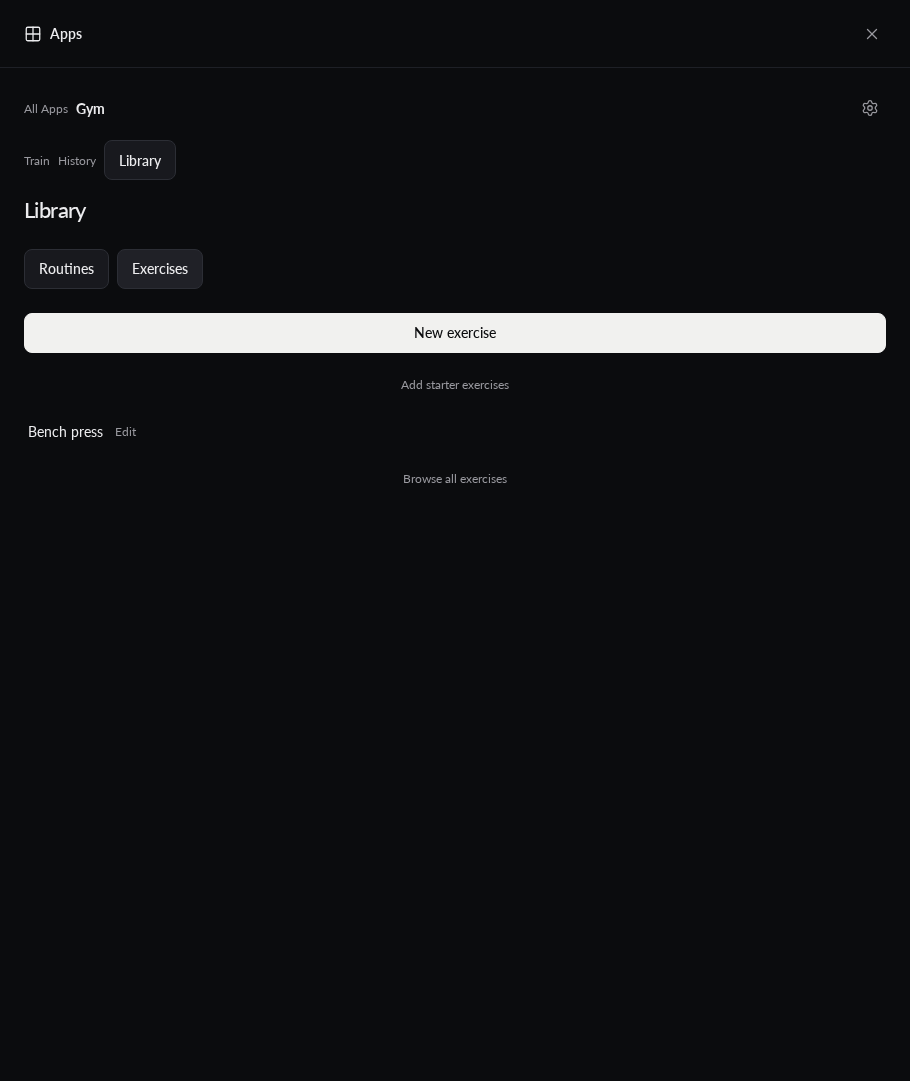
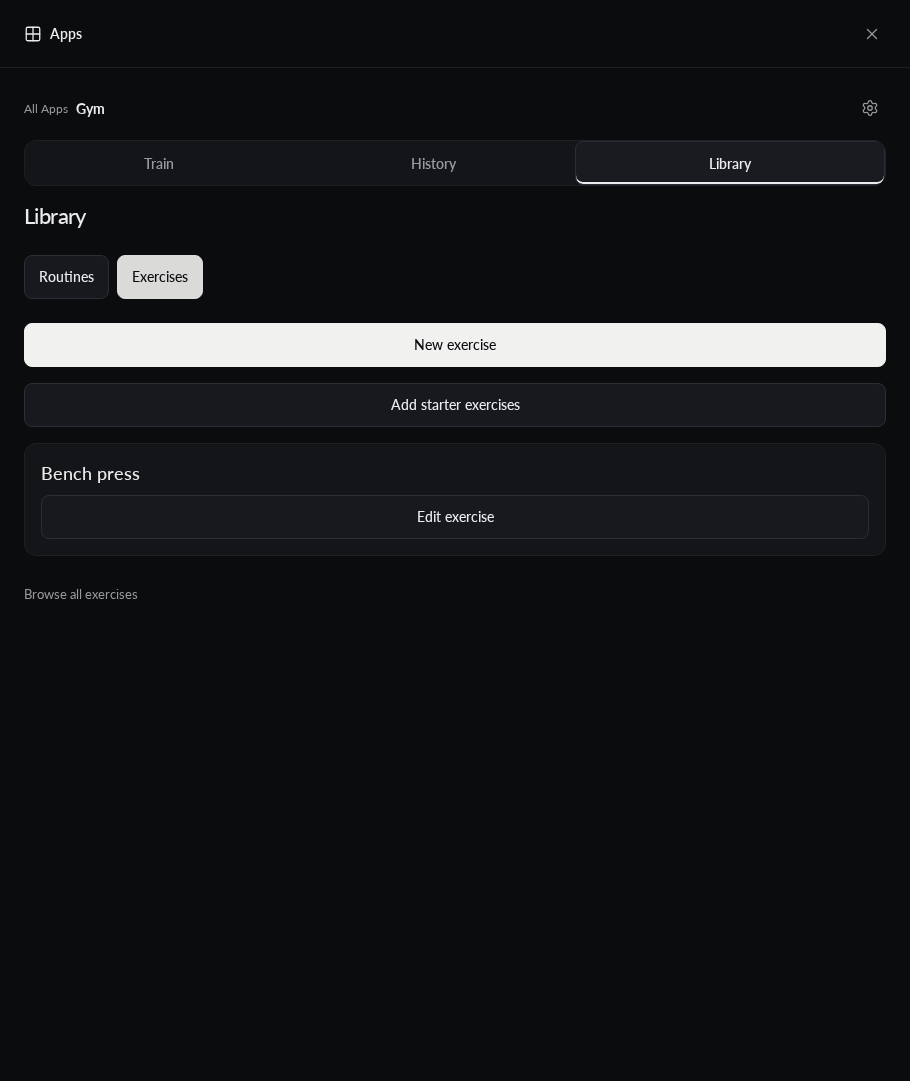
style(gym): clarify workouts and simplify routine editing

diff --git a/src/views/overview-card.ts b/src/views/overview-card.ts
@@ -229,18 +229,29 @@ export function overviewCard(slot: number): NativeNode {
             props: { gap: "small" },
             children: [
               {
-                id: `set-inputs-${slot}`,
+                id: `set-heading-${slot}`,
                 component: "row",
-                props: { gap: "small", align: "end", wrap: false },
+                props: { gap: "small", align: "start", wrap: false },
                 children: [
-                  text(`set-number-${slot}`, {
-                    op: "format",
-                    format: "number",
-                    digits: 0,
-                    value: loggingValue(slot, "ordinals", { itemIndex: "set" }),
-                  }),
-                  metric(slot, 0),
-                  metric(slot, 1),
+                  {
+                    id: `set-number-${slot}`,
+                    component: "heading",
+                    props: {
+                      level: 3,
+                      text: join(
+                        literal("Set"),
+                        {
+                          op: "format",
+                          format: "number",
+                          digits: 0,
+                          value: loggingValue(slot, "ordinals", {
+                            itemIndex: "set",
+                          }),
+                        },
+                        " ",
+                      ),
+                    },
+                  },
                   {
                     id: `set-done-${slot}`,
                     component: "checkbox",
@@ -251,6 +262,12 @@ export function overviewCard(slot: number): NativeNode {
                     },
                   },
                 ],
+              },
+              {
+                id: `set-inputs-${slot}`,
+                component: "row",
+                props: { gap: "normal", align: "end", wrap: false },
+                children: [metric(slot, 0), metric(slot, 1)],
               },
               {
                 id: `planned-${slot}`,
@@ -332,13 +349,13 @@ export function overviewCard(slot: number): NativeNode {
             },
             button(
               `previous-${slot}`,
-              "Previous values",
+              "Previous workout",
               [{ op: "refresh-source", source: compareName(slot) }],
               "ghost",
             ),
             button(
               `details-${slot}`,
-              "Details",
+              "Set options",
               [
                 ...submitCards,
                 ...navigate(

diff --git a/src/views/library.ts b/src/views/library.ts
@@ -27,7 +27,7 @@ function section(kind: "routine" | "exercise"): NativeNode {
               "starter-exercises",
               "Add starter exercises",
               navigate("starter-catalog"),
-              "ghost",
+              "secondary",
             ),
           ]
         : []),
@@ -42,19 +42,19 @@ function section(kind: "routine" | "exercise"): NativeNode {
         },
         template: {
           id: `${kind}-row`,
-          component: "row",
-          props: { gap: "small", align: "center", wrap: true },
+          component: "card",
+          props: { gap: "small" },
           children: [
             {
               id: `${kind}-name`,
-              component: "text",
-              props: { text: ref("item", ["data", "name"], "entry") },
+              component: "heading",
+              props: { text: ref("item", ["data", "name"], "entry"), level: 2 },
             },
             button(
               `open-${kind}`,
-              "Edit",
+              routines ? "View routine" : "Edit exercise",
               navigate(kind, object({ id: ref("item", ["id"], "entry") })),
-              "ghost",
+              "secondary",
             ),
           ],
         },
@@ -96,12 +96,31 @@ export const library = workoutView({
       component: "row",
       props: { gap: "small", wrap: true },
       children: [
-        button("show-routines", "Routines", [
-          { op: "set-state", path: ["section"], value: literal("routines") },
-        ]),
-        button("show-exercises", "Exercises", [
-          { op: "set-state", path: ["section"], value: literal("exercises") },
-        ]),
+        ...(["routines", "exercises"] as const).map((value): NativeNode => {
+          const selected = button(
+            `show-${value}`,
+            value === "routines" ? "Routines" : "Exercises",
+            [{ op: "set-state", path: ["section"], value: literal(value) }],
+            "primary",
+          );
+          return {
+            id: `select-${value}`,
+            component: "condition",
+            props: {
+              when: {
+                op: "equal",
+                left: ref("state", ["section"]),
+                right: literal(value),
+              },
+            },
+            then: selected,
+            else: {
+              ...selected,
+              id: `choose-${value}`,
+              props: { ...selected.props, tone: "secondary" },
+            },
+          };
+        }),
       ],
     },
     section("routine"),

diff --git a/src/views/workout-overview.ts b/src/views/workout-overview.ts
@@ -181,14 +181,14 @@ export const workoutOverview = workoutView({
         },
         button(
           "details",
-          "Details",
+          "Workout details",
           navigateFromCards("workout-details", entity),
           "ghost",
         ),
         {
           ...button(
             "finish-workout",
-            "Finish",
+            "Finish workout",
             [...submitCards, { op: "open-dialog", dialog: "finish" }],
             "primary",
           ),
@@ -232,34 +232,55 @@ export const workoutOverview = workoutView({
         },
       ],
     },
-    text(
-      "workout-progress",
-      join(
+    {
+      ...text(
+        "workout-progress",
         join(
-          {
-            op: "format",
-            format: "number",
-            digits: 0,
-            value: ref("source", ["page", "completed"], "screen"),
-          },
-          {
-            op: "format",
-            format: "number",
-            digits: 0,
-            value: ref("source", ["page", "sets"], "screen"),
-          },
-          " / ",
+          join(
+            {
+              op: "format",
+              format: "number",
+              digits: 0,
+              value: ref("source", ["page", "completed"], "screen"),
+            },
+            {
+              op: "format",
+              format: "number",
+              digits: 0,
+              value: ref("source", ["page", "sets"], "screen"),
+            },
+            " / ",
+          ),
+          literal("sets complete"),
+          " ",
         ),
-        literal("sets complete"),
-        " ",
       ),
-    ),
+      visible: {
+        op: "greater",
+        left: ref("source", ["page", "sets"], "screen"),
+        right: literal(0),
+      },
+    },
+    {
+      id: "empty-workout",
+      component: "empty-state",
+      props: {
+        title: "Add your first exercise",
+        description: "Choose an exercise to start logging sets.",
+      },
+      visible: {
+        op: "equal",
+        left: ref("source", ["page", "total"], "screen"),
+        right: literal(0),
+      },
+    },
     ...indices.map(overviewCard),
     {
       ...button(
         "add-exercise",
         "Add exercise",
         navigateFromCards("choose-exercise", entity),
+        "primary",
       ),
       visible: {
         op: "equal",

diff --git a/src/views/training-home.ts b/src/views/training-home.ts
@@ -58,6 +58,11 @@ export const workouts = workoutView({
         props: { gap: "small" },
         children: [
           {
+            id: "active-status",
+            component: "badge",
+            props: { text: "In progress", tone: "success" },
+          },
+          {
             id: "active-title",
             component: "heading",
             props: {
@@ -94,7 +99,7 @@ export const workouts = workoutView({
       then: {
         ...startWorkoutButton,
         id: "start-another",
-        props: { tone: "ghost", label: "Start workout" },
+        props: { tone: "ghost", label: "Start another workout" },
       },
       else: startWorkoutButton,
     },
@@ -120,7 +125,7 @@ export const workouts = workoutView({
         component: "stack",
         props: { gap: "normal" },
         children: [
-          heading("routine-heading", "Your routines"),
+          heading("routine-heading", "Start from a routine"),
           {
             id: "routine-list",
             component: "list",
@@ -145,7 +150,7 @@ export const workouts = workoutView({
                 },
                 button(
                   "start-routine",
-                  "Start",
+                  "Start routine",
                   [
                     {
                       op: "invoke",

diff --git a/src/views/routines.ts b/src/views/routines.ts
@@ -139,6 +139,28 @@ export const routineEditor = workoutView({
   ],
   dialogs: [
     {
+      id: "options",
+      label: "Routine options",
+      root: page("routine-options-fields", [
+        formField(
+          "routine-notes",
+          "Notes",
+          "routine",
+          ["value", "notes"],
+          true,
+        ),
+        {
+          id: "routine-archive",
+          component: "checkbox",
+          props: {
+            label: "Archived",
+            form: "routine",
+            path: ["value", "archived"],
+          },
+        },
+      ]),
+    },
+    {
       id: "exercise-picker",
       label: "Choose exercise",
       root: exercisePicker("routine"),
@@ -198,16 +220,12 @@ export const routineEditor = workoutView({
       left: { op: "length", value: routineBlocks },
       right: literal(29),
     }),
-    formField("routine-notes", "Notes", "routine", ["value", "notes"], true),
-    {
-      id: "routine-archive",
-      component: "checkbox",
-      props: {
-        label: "Archived",
-        form: "routine",
-        path: ["value", "archived"],
-      },
-    },
+    button(
+      "routine-options",
+      "Routine options",
+      [{ op: "open-dialog", dialog: "options" }],
+      "ghost",
+    ),
   ]),
 });
 

diff --git a/src/views/workout-library.ts b/src/views/workout-library.ts
@@ -62,7 +62,7 @@ const list = (id: string, items: Binding, ongoing: boolean): NativeNode => ({
         : []),
       button(
         `${id}-open`,
-        ongoing ? "Continue" : "Open workout",
+        ongoing ? "Continue workout" : "View workout",
         navigate("workout", object({ id: ref("item", ["id"], "workout") })),
         ongoing ? "primary" : "secondary",
       ),
@@ -89,12 +89,6 @@ export const history = workoutView({
   ],
   root: page("workouts", [
     heading("history-title", "History", 1),
-    button(
-      "recently-deleted",
-      "Recently deleted",
-      [{ op: "refresh-source", source: "removals" }],
-      "ghost",
-    ),
     recoveryControls("workout-undo", [
       {
         op: "navigate",
@@ -112,5 +106,11 @@ export const history = workoutView({
     ...libraryFeedback("No workout history"),
     list("recent-workouts", recent, false),
     libraryPageControls("bottom"),
+    button(
+      "recently-deleted",
+      "Recently deleted",
+      [{ op: "refresh-source", source: "removals" }],
+      "ghost",
+    ),
   ]),
 });

diff --git a/README.md b/README.md
@@ -1,6 +1,6 @@
 # Gym for Anvil
 
-Gym 0.4.0 is an installable App for strength, basic cardio and custom exercise
+Gym 0.4.1 is an installable App for strength, basic cardio and custom exercise
 measurements. It uses Anvil's native components and theme, with no iframe or
 publisher code running in the installed App.
 
